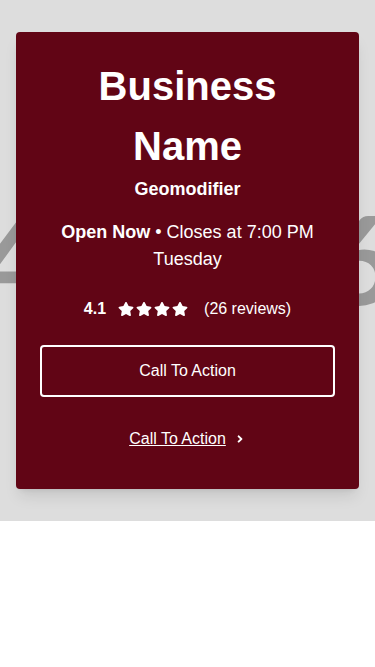
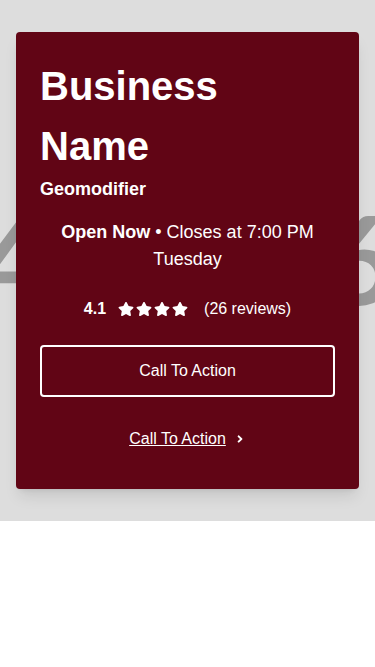
fix: state/history bugs (#935)
Was actually two separate issues:
1. Spotlight hero was setting the text alignment for the headings to
"left" even though it was an exposed prop
2. Copy and paste was broken for Card components because it was
generating new ids for the components in the children slots (good) but
wasn't updating reflecting those updates in the constant value array
(bad)
a. This meant that once you copy-pasted a component, your constant
values would never save because they would get overwritten when
resolveData ran on any subsequent load

Unrelatedly, found a case we can skip some "setData" actions. Might help
with lag.

Finally, added additional dev logging to some newer features

---------

Changed region(s): [[0.088, 0.09, 0.7333, 0.1499], [0.088, 0.1799, 0.6453, 0.2399], [0.088, 0.2699, 0.6453, 0.2999]]

diff --git a/packages/visual-editor/src/internal/components/InternalLayoutEditor.tsx b/packages/visual-editor/src/internal/components/InternalLayoutEditor.tsx
@@ -32,6 +32,7 @@ import { cn } from "../../utils/cn.ts";
 import { removeDuplicateImageActionBars } from "../utils/removeDuplicateImageActionBars.ts";
 import { useDocument } from "../../hooks/useDocument.tsx";
 import { fieldsOverride } from "../puck/components/FieldsOverride.tsx";
+import { isDeepEqual } from "../../utils/deepEqual.ts";
 
 const devLogger = new DevLogger();
 const usePuck = createUsePuck();
@@ -268,10 +269,22 @@ export const InternalLayoutEditor = ({
 
       React.useEffect(() => {
         const resolveData = async () => {
+          devLogger.logFunc("reloadDataOnDocumentChange");
           const { appState, config, dispatch } = getPuck();
+
           const resolvedData = await resolveAllData(appState.data, config, {
             streamDocument,
           });
+
+          devLogger.logData("RESOLVED_LAYOUT_DATA", resolvedData);
+
+          if (isDeepEqual(appState.data, resolvedData)) {
+            devLogger.log(
+              "reloadDataOnDocumentChange - no layout changes detected"
+            );
+            return;
+          }
+
           dispatch({ type: "setData", data: resolvedData });
         };
 
@@ -473,6 +486,30 @@ export const InternalLayoutEditor = ({
                     // oxlint-disable-next-line no-unused-vars
                     const { id: _, parentData: __, ...rest } = item.props;
 
+                    // CardsWrappers need to have their children's ids preserved in the constantValue array
+                    if (item.type.includes("CardsWrapper")) {
+                      if (
+                        "data" in rest &&
+                        "constantValue" in rest.data &&
+                        "slots" in rest &&
+                        "CardSlot" in rest.slots
+                      ) {
+                        const constantValue = rest.data.constantValue;
+                        if (
+                          Array.isArray(constantValue) &&
+                          constantValue.every(
+                            (cv: unknown) =>
+                              typeof cv === "object" && cv && "id" in cv
+                          )
+                        ) {
+                          constantValue.forEach((cv, i) => {
+                            cv.id =
+                              rest?.slots?.CardSlot[i]?.props?.id || cv.id;
+                          });
+                        }
+                      }
+                    }
+
                     return {
                       ...item,
                       props: { ...rest, id },
@@ -482,6 +519,7 @@ export const InternalLayoutEditor = ({
                 // preserve the selected component's id and type
                 newData.props.id = selectedComponent.props.id;
 
+                devLogger.logData("PASTED_DATA", newData);
                 dispatch({
                   type: "replace",
                   destinationZone: appState.ui.itemSelector.zone,

diff --git a/packages/visual-editor/src/components/pageSections/HeroSection.tsx b/packages/visual-editor/src/components/pageSections/HeroSection.tsx
@@ -546,18 +546,6 @@ export const HeroSection: ComponentConfig<{ props: HeroSectionProps }> = {
           "mx-auto max-w-full md:max-w-[350px] lg:max-w-[calc(min(calc(100vw-1.5rem),var(--maxWidth-pageSection-contentWidth))-350px)] rounded-image-borderRadius"
         );
         break;
-      case "spotlight":
-        data = setDeep(
-          data,
-          "props.slots.GeomodifierSlot[0].props.styles.align",
-          "center"
-        );
-        data = setDeep(
-          data,
-          "props.slots.BusinessNameSlot[0].props.styles.align",
-          "center"
-        );
-        break;
     }
 
     const streamDocument = params.metadata?.streamDocument;

diff --git a/packages/visual-editor/src/internal/puck/components/LayoutHeader.tsx b/packages/visual-editor/src/internal/puck/components/LayoutHeader.tsx
@@ -20,8 +20,10 @@ import {
   pt,
 } from "../../../utils/i18n/platform.ts";
 import { useDocument } from "../../../hooks/useDocument.tsx";
+import { DevLogger } from "../../../utils/devLogger.ts";
 
 const usePuck = createUsePuck();
+const devLogger = new DevLogger();
 
 type LayoutHeaderProps = {
   templateMetadata: TemplateMetadata;
@@ -161,6 +163,7 @@ export const LayoutHeader = (props: LayoutHeaderProps) => {
                   streamDocument
                 );
 
+                devLogger.logData("PASTED_DATA", migratedPastedData);
                 dispatch({
                   type: "setData",
                   data: migratedPastedData,

diff --git a/packages/visual-editor/src/components/pageSections/InsightSection/InsightCard.tsx b/packages/visual-editor/src/components/pageSections/InsightSection/InsightCard.tsx
@@ -319,16 +319,7 @@ const InsightCardComponent: PuckComponent<InsightCardProps> = (props) => {
         },
       },
     });
-  }, [
-    sharedCardProps,
-    styles.backgroundColor,
-    slotStyles,
-    props.puck.isEditing,
-    getPuck,
-    props.id,
-    slotsData,
-    props,
-  ]);
+  }, [sharedCardProps]);
 
   // When the card's shared props or the card's slots' shared props change, update the context
   React.useEffect(() => {

diff --git a/packages/visual-editor/src/utils/devLogger.ts b/packages/visual-editor/src/utils/devLogger.ts
@@ -4,6 +4,8 @@ export type DevLoggerPrefix =
   | "LAYOUT_SAVE_STATE"
   | "THEME_SAVE_STATE"
   | "LAYOUT_DATA"
+  | "RESOLVED_LAYOUT_DATA"
+  | "PASTED_DATA"
   | "THEME_DATA"
   | "THEME_HISTORIES"
   | "DOCUMENT"
